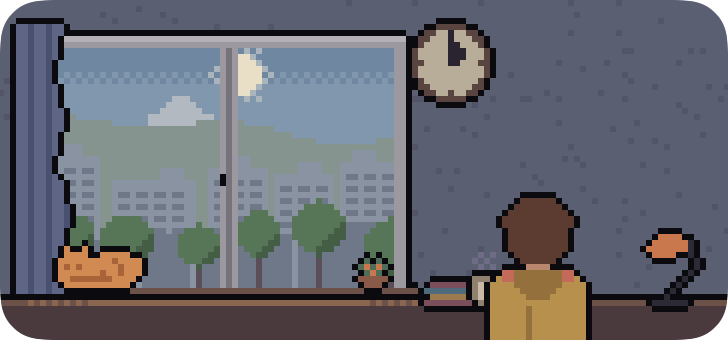
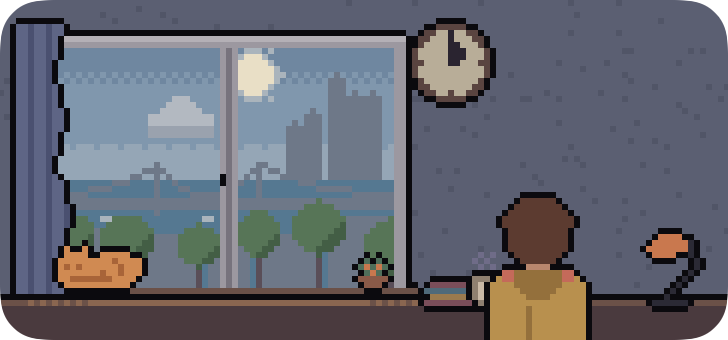
README: 부산 창밖을 기준으로 그림과 지역 풍경 설명

diff --git a/README.md b/README.md
@@ -2,13 +2,16 @@
 
 고른 지역의 날씨·시각·명절을 창밖 풍경으로 보여 주는 macOS·iOS 위젯입니다. 창문 모양이고, 3pt 도트로 그립니다. 이름은 트루먼 쇼에서 가상 세계를 연출하는 감독 Christof에서 따왔습니다. 이 창문이 가상의 창문이라는 뜻입니다.
 
+부산의 창밖입니다. 바다 건너 해운대 고층 빌딩이 보이고, 그 앞을 광안대교가 가로지릅니다.
+
 | | |
 |---|---|
-| ![여름 맑은 낮](docs/images/01-summer-clear-day.png) | ![비 오는 오후](docs/images/07-rainy-afternoon.png) |
-| ![추석 보름달](docs/images/06-chuseok-full-moon.png) | ![눈 오는 크리스마스](docs/images/10-snowy-christmas-day.png) |
+| ![부산 여름 맑은 낮](docs/images/01-summer-clear-day.png) | ![부산 비 오는 오후](docs/images/07-rainy-afternoon.png) |
+| ![부산 추석 보름달 밤](docs/images/06-chuseok-full-moon.png) | ![부산 눈 오는 크리스마스](docs/images/10-snowy-christmas-day.png) |
 
 ## 보여 주는 것
 
+- **지역 풍경**: 부산은 바다, 해운대 빌딩, 광안대교입니다. 서울은 남산 위 N서울타워가 보이고, 다른 지역은 뒷산과 아파트 단지입니다.
 - **날씨**: 그 지역의 지금 날씨입니다. 맑음, 구름 조금, 흐림, 안개, 이슬비, 비, 눈, 뇌우를 창밖에 그립니다.
 - **시각**: 해와 달을 실제 위치에 그리고, 시각에 따라 낮, 해 질 녘, 밤으로 하늘색이 바뀝니다. 벽시계도 그 지역 시각을 가리킵니다.
 - **이벤트**
